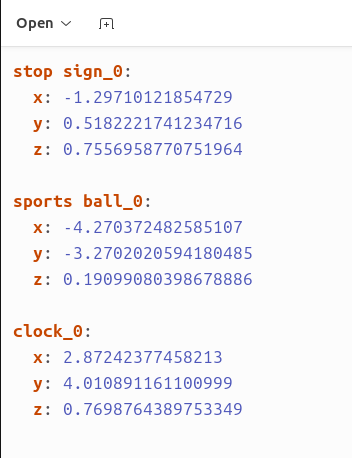
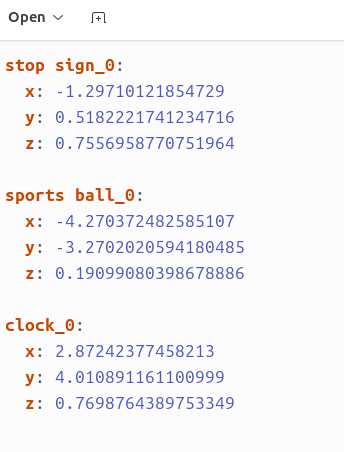
update readme

diff --git a/README.md b/README.md
@@ -14,7 +14,7 @@ PatBot is an autonomous robot that maps an environment and estimates 3D location
 * Voice recognition: Vosk 0.22. 
 ## 4. OVERALL ARCHITECTURE
 * PatBot has 3 main systems: Explorer, Follower, and Detector. The overall operation flow of PatBot and how the systems interact with one another are shown below. In general, PatBot has two phases: (i) mapping and detecting and (ii) voice-controlled following.
-![architecture](./my_car_image_demdo/structure.png)
+![architecture](./my_car_image_demo/structure.png)
 ## 5. OPERATION FLOW
 ### Mapping and Detecting
 * In an unknown environment, Explorer receives 2D LiDAR scans from LiDAR sensor and determines which areas are unknown (undefined), free, or occupied. Explorer then identifies frontier positions (defined below) in the environment and drives PatBot to move to those positions. While PatBot moves, Explorer perceives the environment using LiDAR and get more knowledge about the environment. The accumulated knowledge will later be used to generate a map of the environment. 
